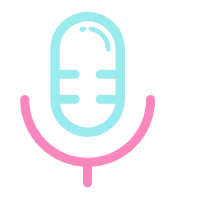
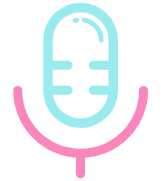
2

Changed region(s): [[0.0621, 0.0, 0.9317, 0.9945]]

diff --git a/src/components/HelloWorld.vue b/src/components/HelloWorld.vue
@@ -11,7 +11,10 @@
       </div>
 
       <div class="buttons-container">
-      <button class="custom-button" @click="startRecording">Start</button>
+      <button class="custom-button" @click="startRecording">
+        <img src="../assets/mp.png" alt="Microphone" />
+      </button>
+      <!-- <button class="record-button" @click="toggleRecording">{{ recording ? 'Stop' : 'Start' }}</button> -->
       <button class="custom-button" @click="stopRecording">Stop</button>
       </div>
 
@@ -34,6 +37,7 @@ export default {
       isRecording: false,
       response: '', // 响应结果
       searchQuery: '',
+      recognizer: null,
     };
   },
 
@@ -96,6 +100,37 @@ export default {
         });
       }
     },
+    toggleRecording() {
+      if (!('webkitSpeechRecognition' in window)) {
+        // Speech Recognition API not supported, handle it
+        alert('Speech recognition not supported');
+        return;
+      }
+      if (!this.recognition) {
+        this.recognition = new webkitSpeechRecognition();
+        this.recognition.continuous = true;
+        this.recognition.interimResults = false;
+        this.recognition.lang = 'en-US'; // set your language
+        this.recognition.onend = () => {
+          this.recording = false;
+          // Add code to process results here
+          this.recognition.onresult = (event) => {
+            var last = event.results.length - 1;
+            var command = event.results[last][0].transcript;
+            console.log('Voice command: ', command);
+          };
+
+          console.log('Speech recognition stopped');
+        };
+      }
+      if (this.recording) {
+        this.recognition.stop();
+      } else {
+        this.recognition.start();
+      }
+      this.recording = !this.recording;
+    },
+    
 
   },
 };
@@ -148,7 +183,7 @@ a {
   background-color: #0ABAB5; 
   color: white; 
   border: none; 
-  border-radius: 20px;
+  border-radius: 35px;
   cursor: pointer;
 }
 .custom-button:hover {
@@ -182,5 +217,9 @@ a {
 .search-button:hover {
   background-color: #089A95;
 }
+img {
+    width: 40px;
+    height: 40px;
+  }
 </style>
 

diff --git a/src/components/RestaurantPage.vue b/src/components/RestaurantPage.vue
@@ -2,7 +2,7 @@
   <div>
     <h1>Query Page</h1>
     <el-spinner v-if="isLoading" type="fading-circle" class="spinner"></el-spinner>
-    <el-table :data="restaurants" style="width: 80%; margin:auto; margin-top: 25px; margin-bottom: 20px; border-radius: 10px;" :header-cell-style="{background:'#69e8bb',color:'#535252'}">
+    <el-table :data="restaurants" style="width: 80%; margin:auto; margin-top: 20px; margin-bottom: 20px; border-radius: 10px;" :header-cell-style="{background:'#69e8bb',color:'#535252'}">
       <el-table-column
         prop="name"
         label="Name"
@@ -113,6 +113,7 @@ methods: {
 h1 {
   text-align: center;
   color: #22f2c5;
+  margin-top: 50px;
 }
 .el-table {
   margin-top: 20px;

diff --git a/src/App.vue b/src/App.vue
@@ -3,7 +3,7 @@
     <nav>
       <div class="nav-container">
         <div class="logo">
-          <h1>TalknTour</h1>
+          <img src="./assets/mp.png" alt="Microphone" /><h1>TalknTour</h1>
         </div>
       <ul>
         <li><router-link to="/">Home</router-link></li>
@@ -120,4 +120,13 @@ nav a:hover {
     .footer p {
       margin: 0;
     }
+
+.logo img,
+.logo h1 {
+  display: inline-block;
+}
+  img{
+    width: 25px;
+    height: 25px;
+  }
 </style>
